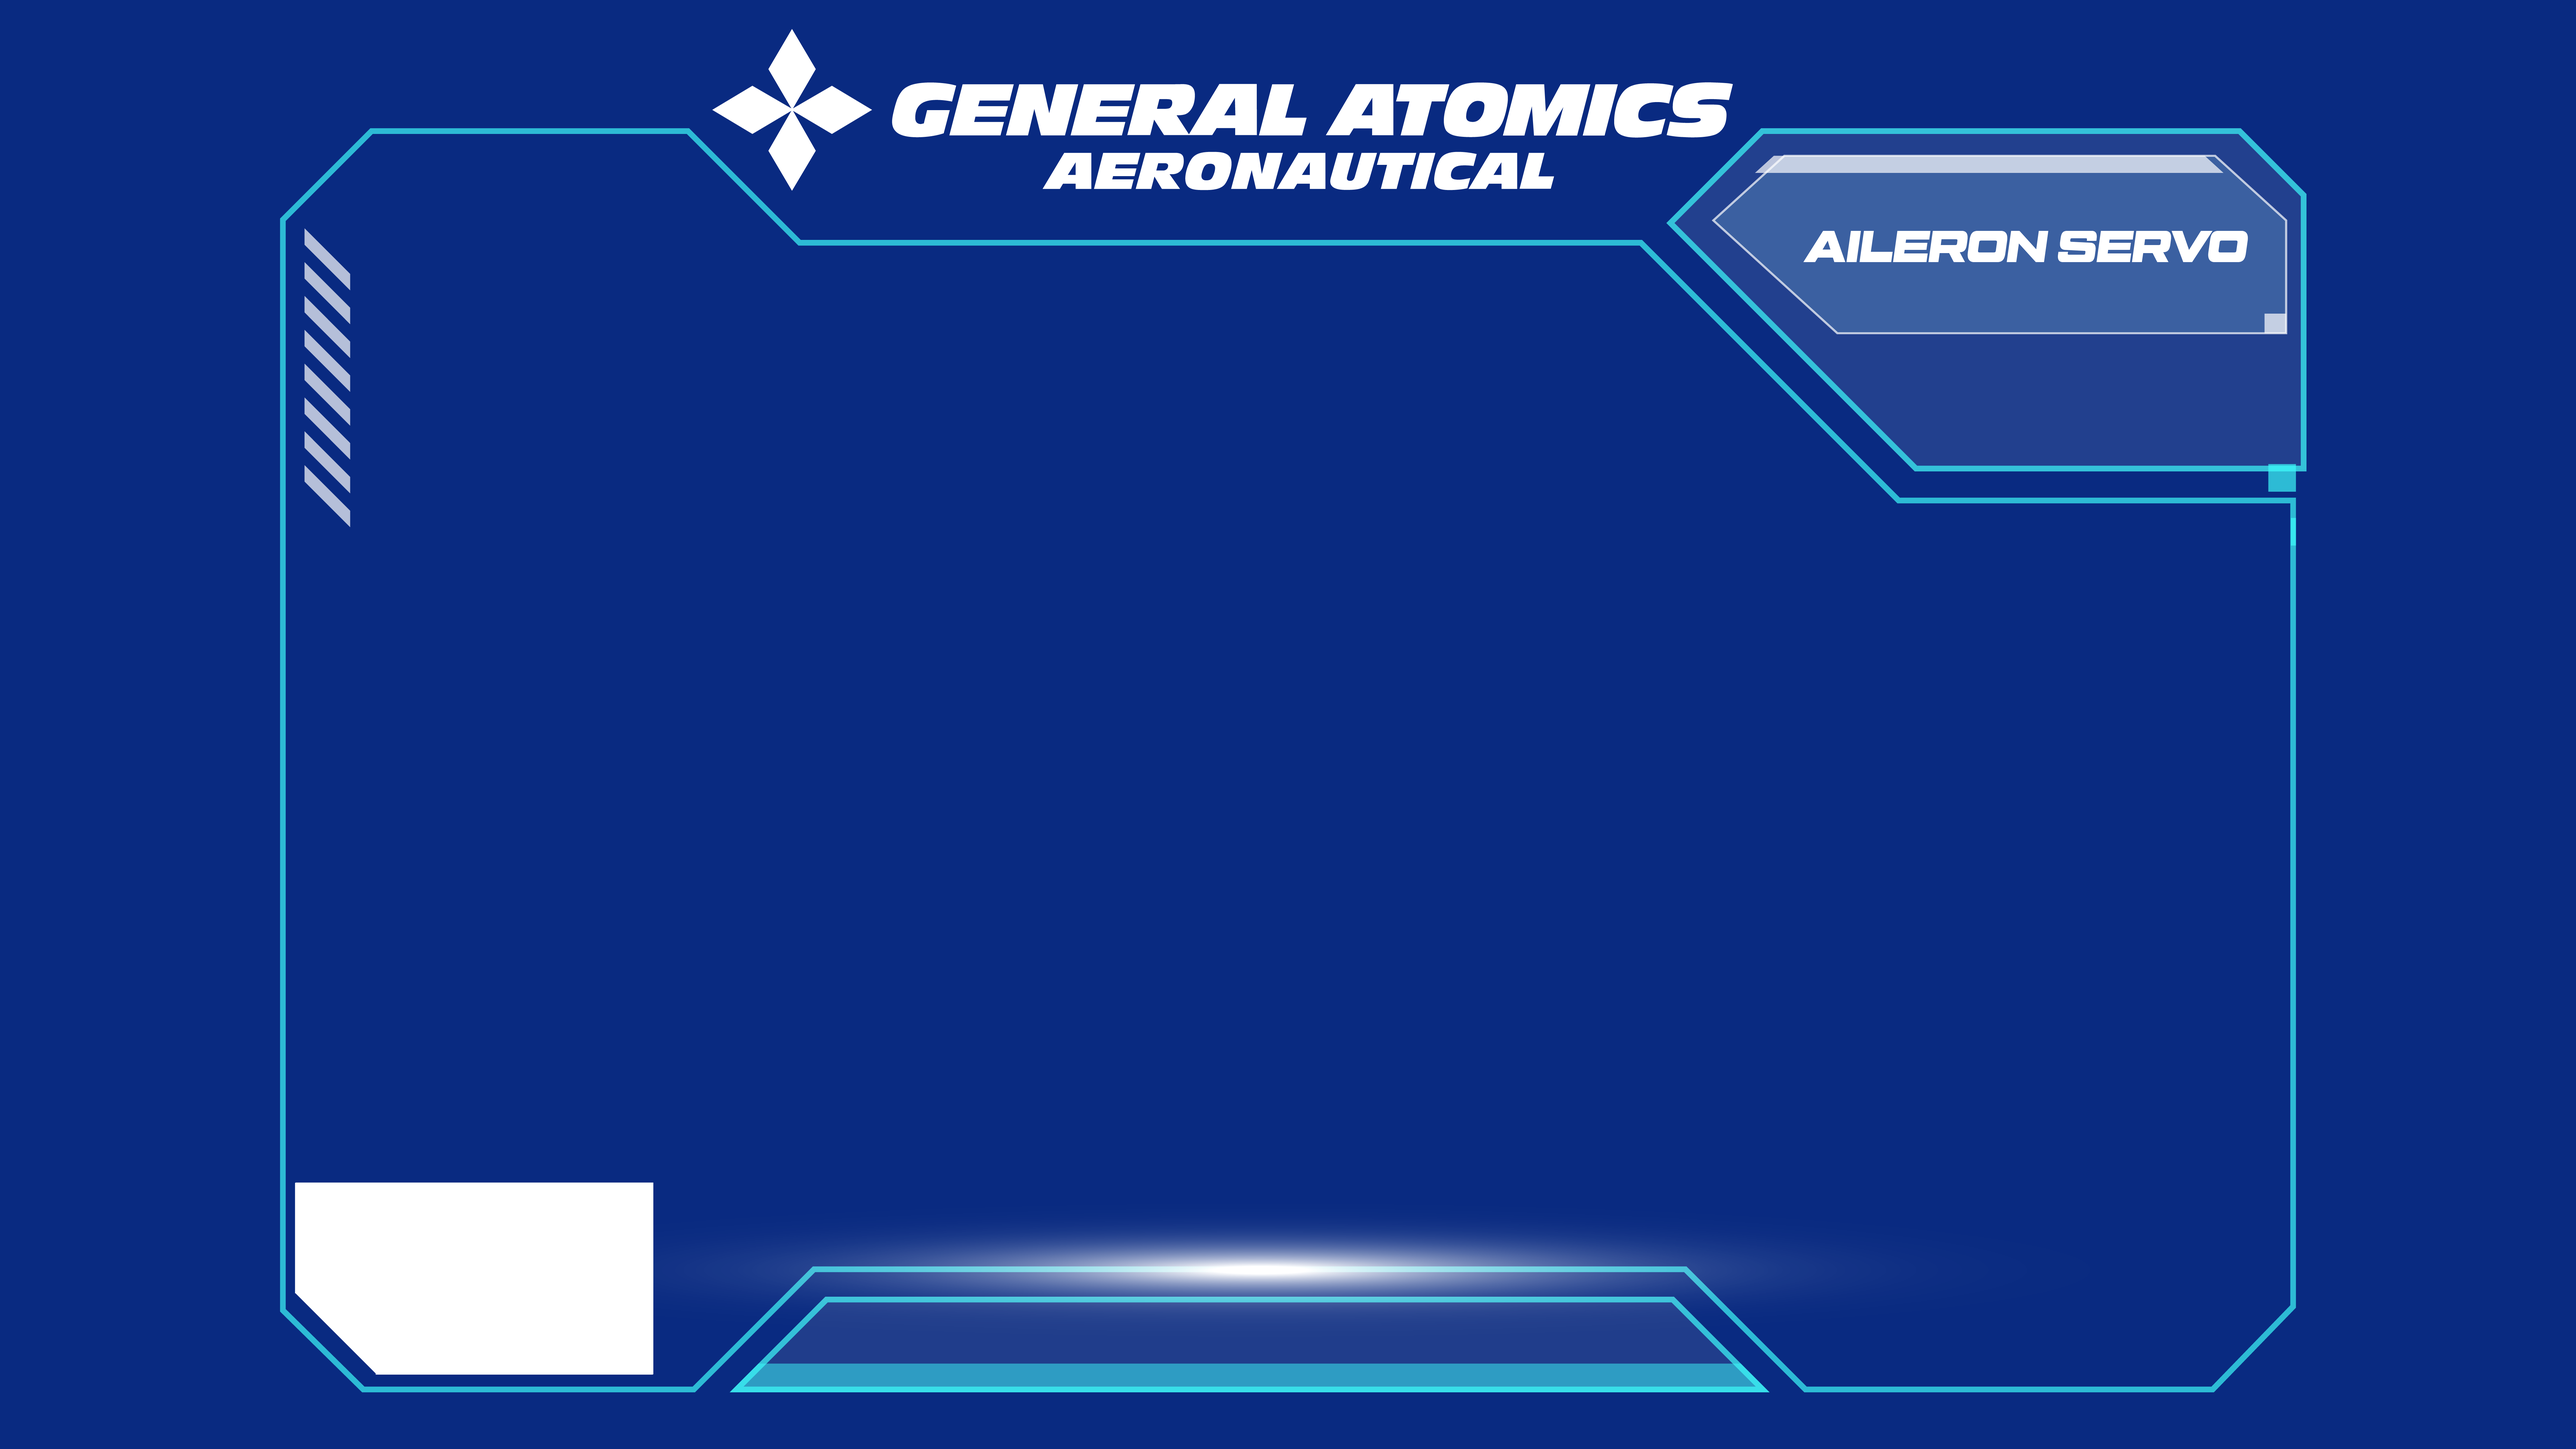
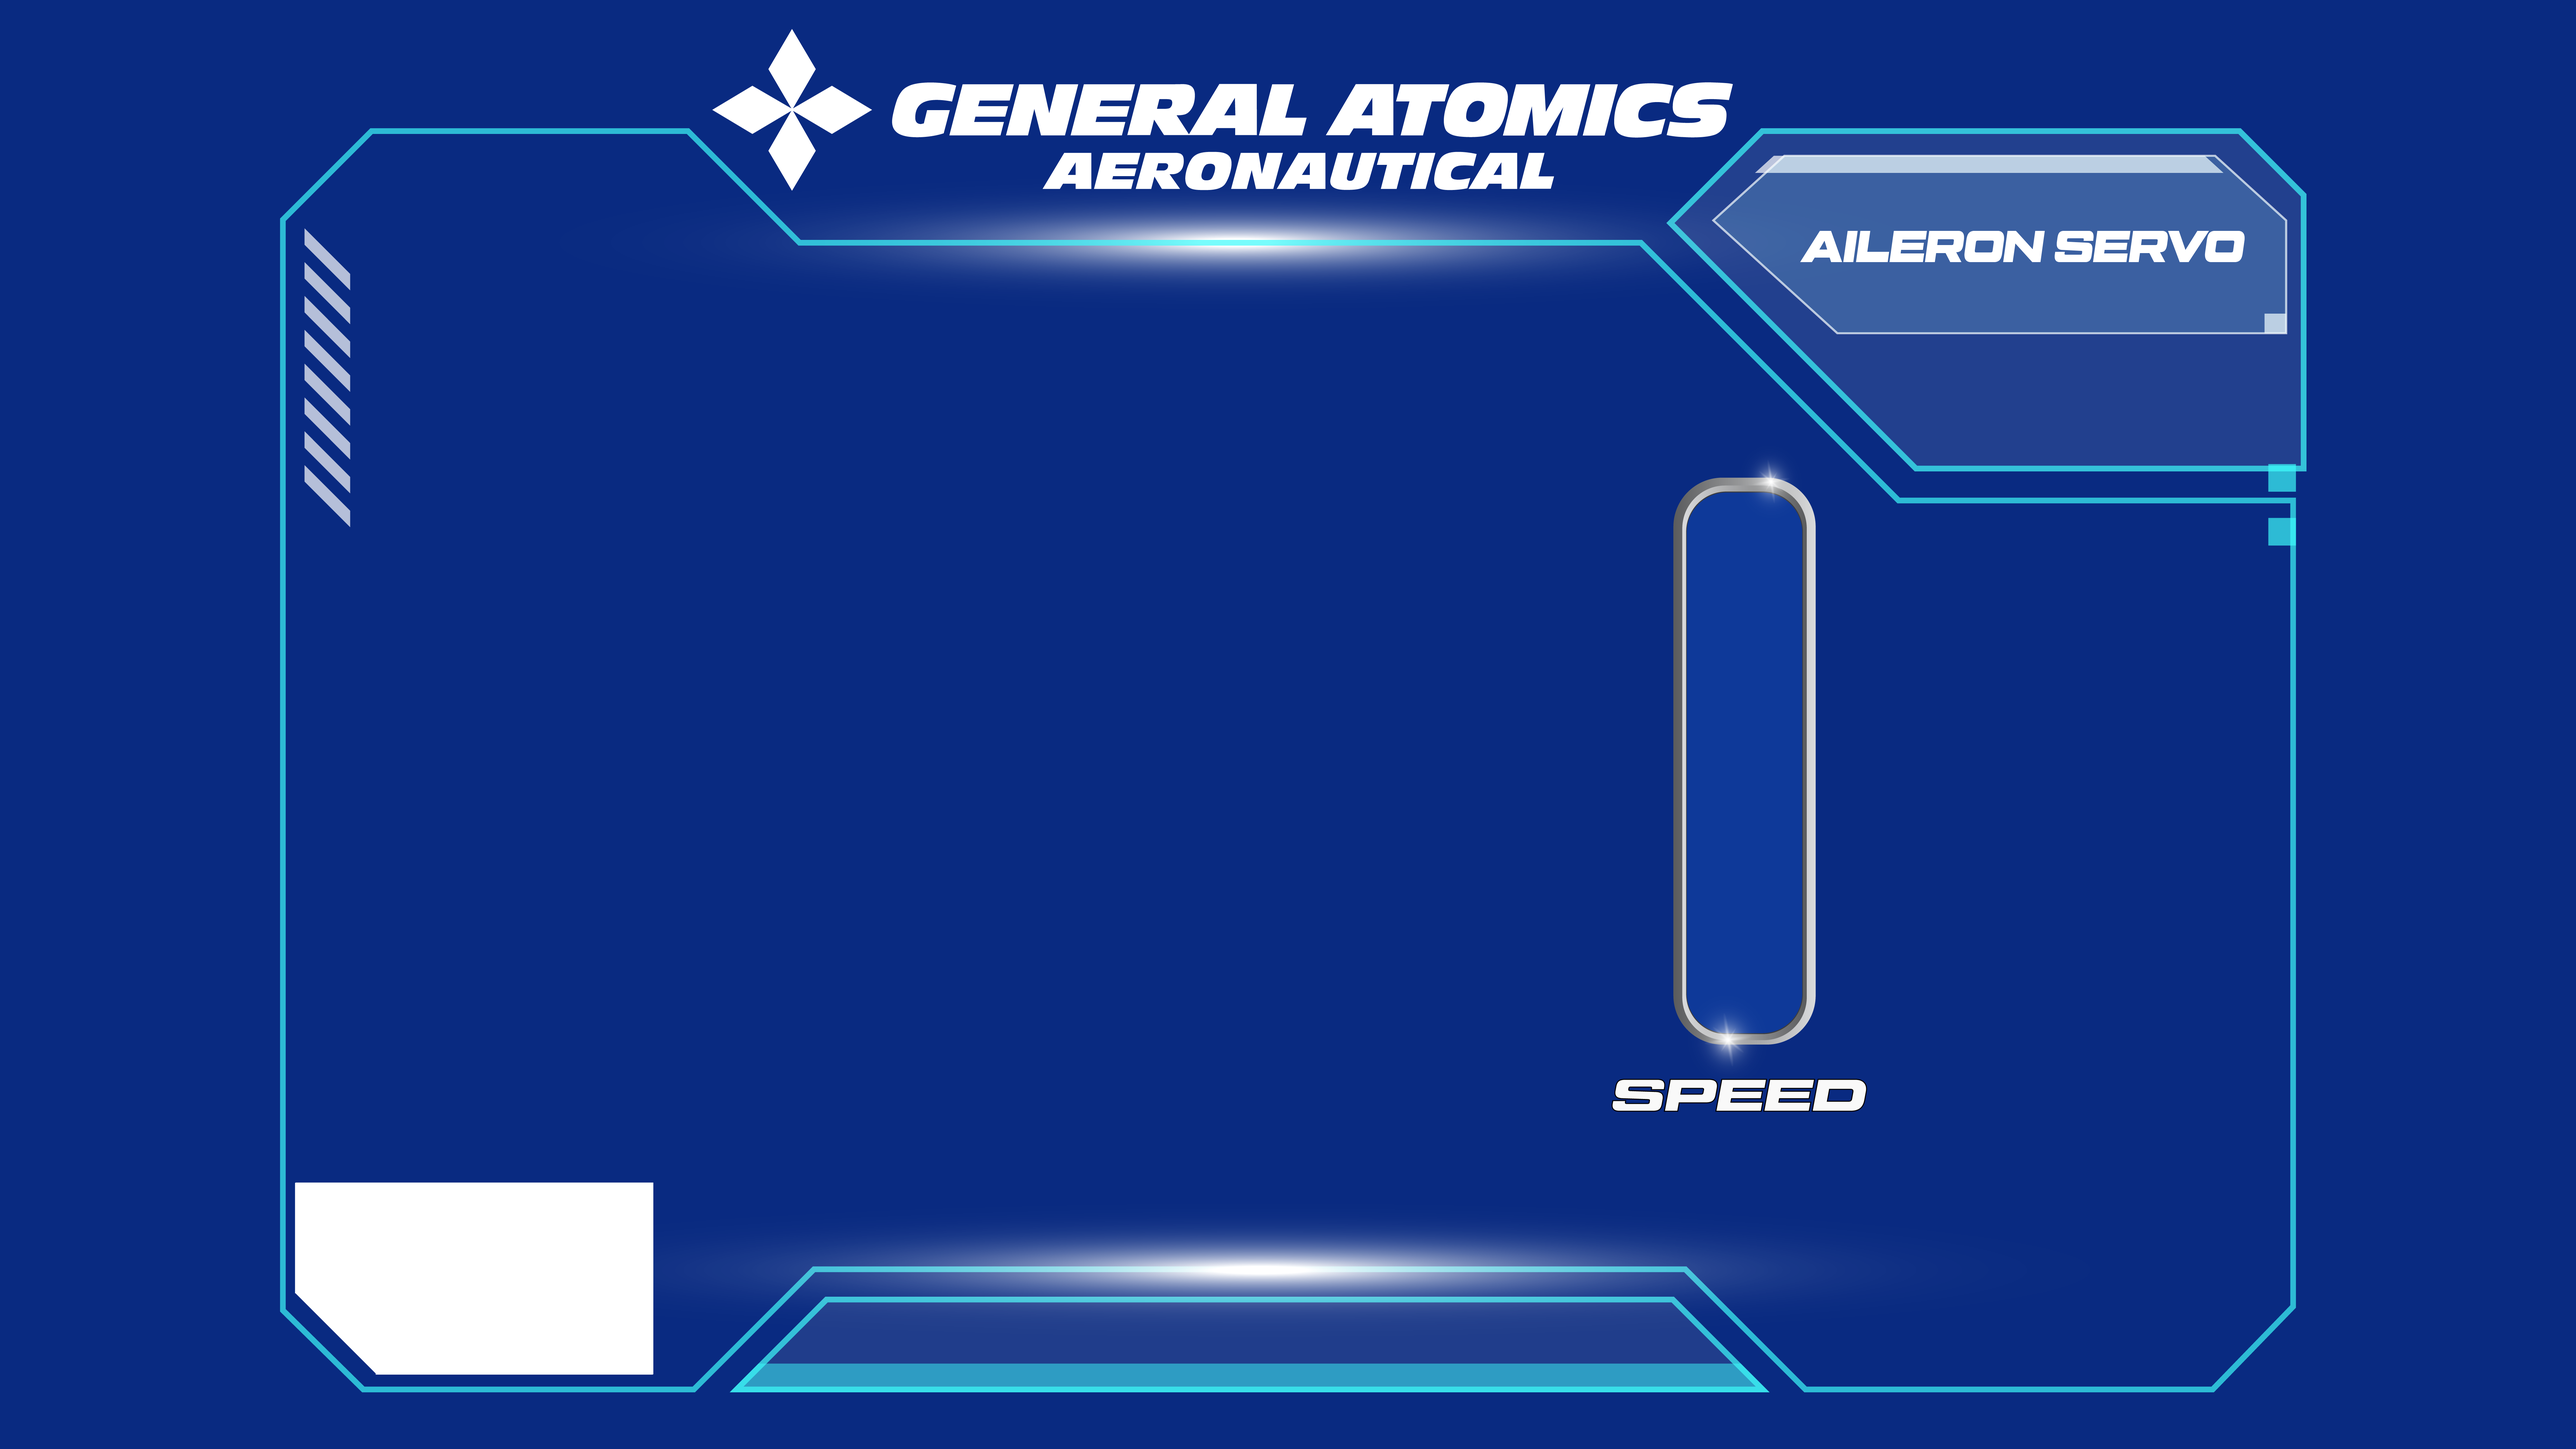
Added aileron page and updated directional antenna

diff --git a/NEW_GA_GUI.py b/NEW_GA_GUI.py
@@ -5,16 +5,18 @@ from PIL import Image, ImageTk
 from time import sleep
 from tkinter import messagebox as mb
 import time
-from Alternator_LED_DCMotor import DC_LED_function
-from Directional_antenna import antenna
+#from Alternator_LED_DCMotor import DC_LED_function
+#from Directional_antenna import antenna
 import threading
 
 
 
 current_value = 0
+aileron_speed_value = 0
 class GA(tk.Tk):
     def __init__(self):
         super().__init__()
+        self.aileron_speed_value = 0
         self.numbers_clicked = []
         self.current_value = 0
         self.w1 = 0
@@ -239,7 +241,7 @@ class GA(tk.Tk):
 
 
 
-        self.w1 = Scale(self.alternator_page, from_=0, to=100, length=1000, orient=HORIZONTAL,  
+        self.w1 = Scale(self.alternator_page, from_=0, to=100, length=1000, orient=HORIZONTAL,
                         troughcolor='#0e3999', width=67, sliderrelief='groove', highlightbackground='#0e3999',
                         sliderlength=40, font= ("Tactic Sans Extra Extended", 15), showvalue=0)
         self.w1.set(current_value)
@@ -293,14 +295,14 @@ class GA(tk.Tk):
                                      borderwidth=0, relief="flat", bd=0)
         self.next_button.place(x=800, y=500)
 
-        self.left1 = ImageTk.PhotoImage(Image.open("btn_images/retract_down.png"))
-        self.next_button = tk.Button(self.landing_gear_page, image=self.left1, highlightthickness=0,
+        self.retract_down = ImageTk.PhotoImage(Image.open("btn_images/retract_down.png"))
+        self.next_button = tk.Button(self.landing_gear_page, image=self.retract_down, highlightthickness=0,
                                      activebackground='#092a81', background='#092a81', command=self.reverse_retract,
                                      borderwidth=0, relief="flat", bd=0)
         self.next_button.place(x=800, y=725)
 
-        self.right1 = ImageTk.PhotoImage(Image.open("btn_images/retract_up.png"))
-        self.next_button = tk.Button(self.landing_gear_page, image=self.right1, highlightthickness=0,
+        self.retract_up = ImageTk.PhotoImage(Image.open("btn_images/retract_up.png"))
+        self.next_button = tk.Button(self.landing_gear_page, image=self.retract_up, highlightthickness=0,
                                      activebackground='#092a81', background='#092a81', command=self.forward_retract,
                                      borderwidth=0, relief="flat", bd=0)
         self.next_button.place(x=800, y=275)
@@ -315,6 +317,39 @@ class GA(tk.Tk):
                                      activebackground='#092a81', background='#092a81', command=self.show_aileron_servo_page,
                                      borderwidth=0, relief="flat", bd=0)
         self.next_button.place(x=1188, y=450)
+
+        self.aileron_speed = Scale(self.aileron_servo_page, from_=100, to=0, length=360, orient=VERTICAL,
+                        troughcolor='#0e3999', width=76, sliderrelief='groove', highlightbackground='#0e3999',
+                        sliderlength=40, font=("Tactic Sans Extra Extended", 15), showvalue=0)
+        self.aileron_speed.set(aileron_speed_value)
+        self.aileron_speed.pack()
+
+        self.aileron_speed.bind("<B1-Motion>", self.aileron_show_values)
+        self.aileron_speed.place(x=1259, y=385)
+        self.aileron_value_label = Label(self.aileron_servo_page, text=self.aileron_speed_value, font=("Tactic Sans Extra Extended", 25),
+                                 fg='white', bg="#092a81")
+        self.aileron_value_label.pack()
+        self.aileron_value_label.place(x=1280, y=840)
+
+        # center
+        self.center_aileron_img = ImageTk.PhotoImage(Image.open("btn_images/center.png"))
+        self.next_button = tk.Button(self.aileron_servo_page, image=self.center_aileron_img, highlightthickness=0,
+                                     activebackground='#092a81', background='#092a81', command=self.center_aileron,
+                                     borderwidth=0, relief="flat", bd=0)
+        self.next_button.place(x=800, y=500)
+
+        self.down_aileron_img = ImageTk.PhotoImage(Image.open("btn_images/aileron_down.png"))
+        self.next_button = tk.Button(self.aileron_servo_page, image=self.down_aileron_img, highlightthickness=0,
+                                     activebackground='#092a81', background='#092a81', command=self.down_aileron,
+                                     borderwidth=0, relief="flat", bd=0)
+        self.next_button.place(x=800, y=725)
+
+        self.up_aileron_img = ImageTk.PhotoImage(Image.open("btn_images/aileron_up.png"))
+        self.next_button = tk.Button(self.aileron_servo_page, image=self.up_aileron_img, highlightthickness=0,
+                                     activebackground='#092a81', background='#092a81', command=self.up_aileron,
+                                     borderwidth=0, relief="flat", bd=0)
+        self.next_button.place(x=800, y=275)
+
 
         self.back2 = ImageTk.PhotoImage(Image.open("images/adminmenu_btn.png"))
         self.next_button = tk.Button(self.aileron_servo_page, image=self.back2, highlightthickness=0,
@@ -332,6 +367,18 @@ class GA(tk.Tk):
                                      command=self.show_directional_antenna_page,
                                      borderwidth=0, relief="flat", bd=0)
         self.next_button.place(x=765, y=450)
+
+        self.left_antenna_img = ImageTk.PhotoImage(Image.open("btn_images/antenna_left.png"))
+        self.next_button = tk.Button(self.directional_antenna_page, image=self.left_antenna_img, highlightthickness=0,
+                                     activebackground='#092a81', background='#092a81', command=self.left_antenna,
+                                     borderwidth=0, relief="flat", bd=0)
+        self.next_button.place(x=350, y=480)
+
+        self.right_antenna_img = ImageTk.PhotoImage(Image.open("btn_images/antenna_right.png"))
+        self.next_button = tk.Button(self.directional_antenna_page, image=self.right_antenna_img, highlightthickness=0,
+                                     activebackground='#092a81', background='#092a81', command=self.right_antenna,
+                                     borderwidth=0, relief="flat", bd=0)
+        self.next_button.place(x=1250, y=480)
 
         self.back3 = ImageTk.PhotoImage(Image.open("images/adminmenu_btn.png"))
         self.next_button = tk.Button(self.directional_antenna_page, image=self.back3, highlightthickness=0,
@@ -522,8 +569,13 @@ class GA(tk.Tk):
             self.value_label.config(text=self.current_value)
             print(self.current_value)
             LightPWMController(self.current_value)
-    
-       
+    def aileron_show_values(self, event):
+        new_value = self.aileron_speed.get()
+        if new_value != self.aileron_speed_value:
+            self.aileron_speed_value = new_value
+            self.aileron_value_label.config(text=self.aileron_speed_value)
+            print(self.aileron_speed_value)
+
     def reverse_steering(self):
         print("reverse_steering")
 
@@ -540,7 +592,17 @@ class GA(tk.Tk):
         res = mb.askquestion('EXIT APPLICATION', 'Would you like to terminate the program and exit the application?')
         if res == 'yes':
             self.destroy()
+    def up_aileron(self):
+        print("UP_Aileron")
+    def down_aileron(self):
+        print("DOWM_Aileron")
 
+    def left_antenna(self):
+        print("left_antenna")
+    def right_antenna(self):
+        print("right_antenna")
+    def center_aileron(self):
+        print("Center_Aileron")
     def reset_timer(self, event=None):
         self.last_active_time = time.time() #time goes back to normal
 
